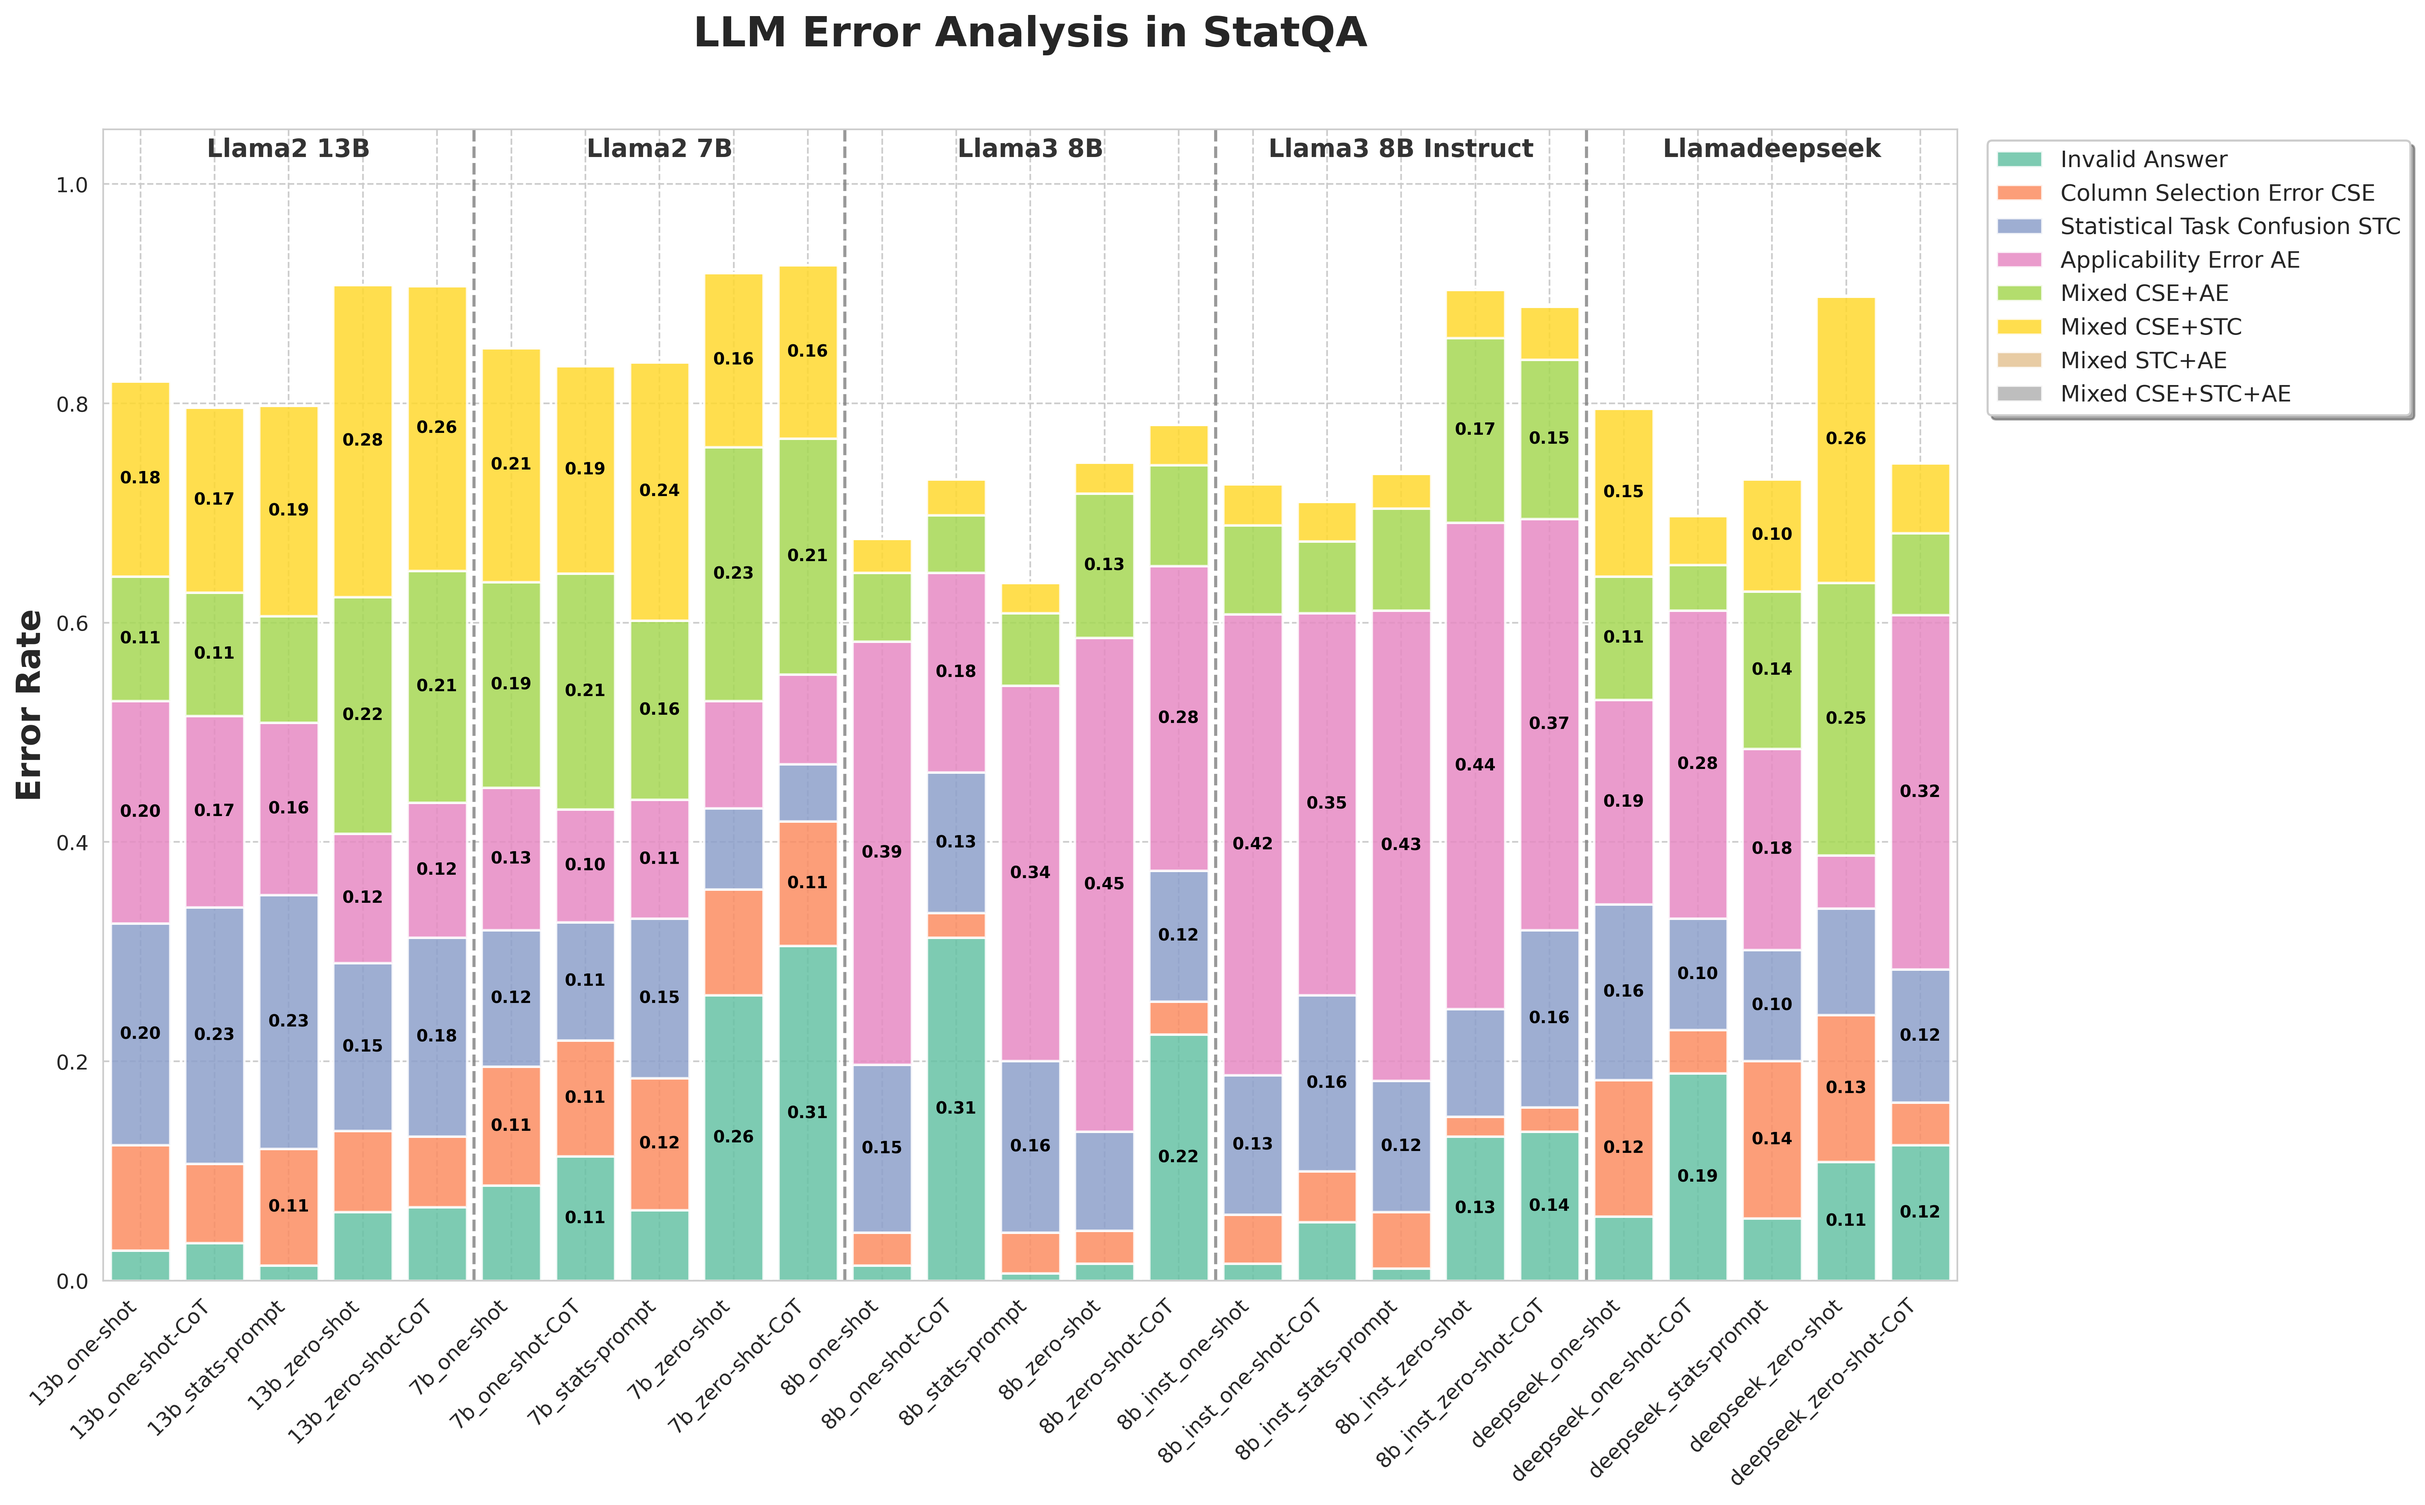
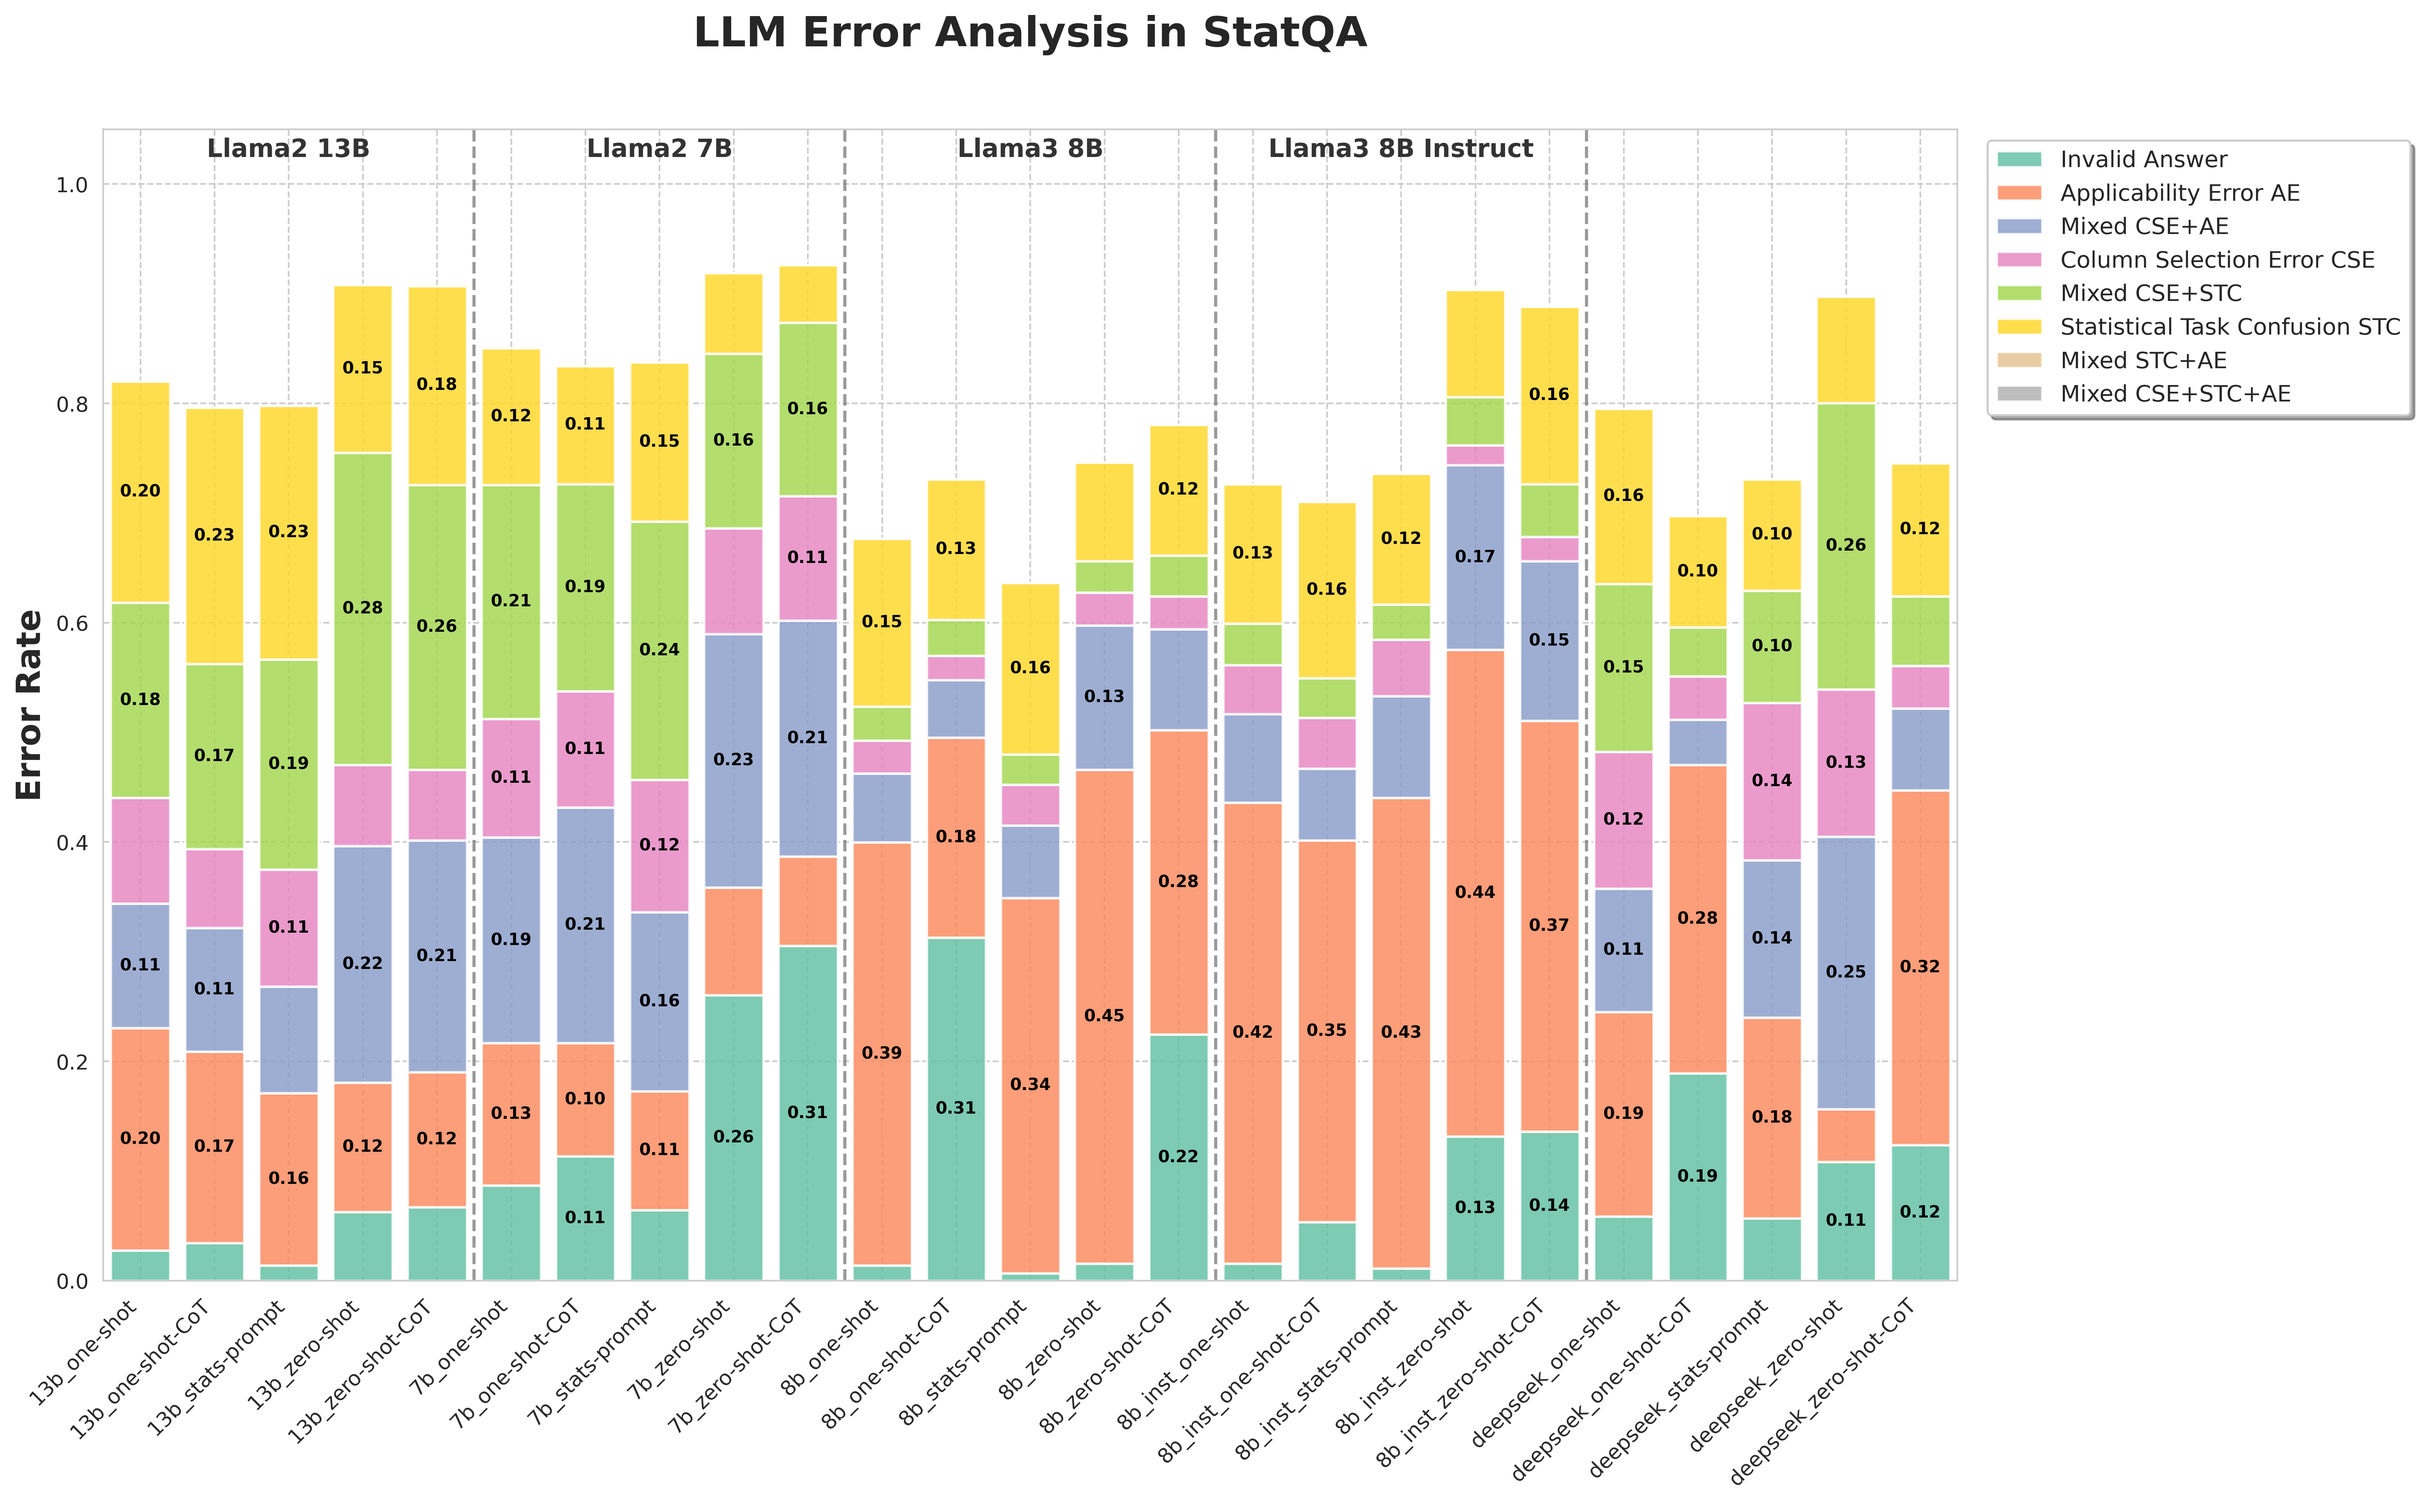
final error analysis bar plot. reproduction finished.

diff --git a/StatQA/Script/error_bar_chart.py b/StatQA/Script/error_bar_chart.py
@@ -21,13 +21,13 @@ sns.set_style("whitegrid", {'grid.linestyle': '--', 'grid.alpha': 0.3})
 # Load data
 df = pd.read_csv(CSV_PATH)
 error_cols = [
-    'Invalid Answer', 'Column Selection Error (CSE)', 'Statistical Task Confusion (STC)', 
-    'Applicability Error (AE)', 'Mixed Errors (CSE+AE)', 'Mixed Errors (CSE+STC)', 
+    'Invalid Answer', 'Applicability Error (AE)', 'Mixed Errors (CSE+AE)',
+    'Column Selection Error (CSE)', 'Mixed Errors (CSE+STC)', 'Statistical Task Confusion (STC)',
     'Mixed Errors (STC+AE)', 'Mixed Errors (CSE+STC+AE)'
 ]
 
 # Define Groups
-groups_order = ['llama2_13b', 'llama2_7b', 'llama3_8b', 'llama3_8b_instruct', 'llamadeepseek']
+groups_order = ['llama2_13b', 'llama2_7b', 'llama3_8b', 'llama3_8b_instruct', 'deepseek']
 
 def group_model(model):
     if 'llama2_13b' in model: return 'llama2_13b'
